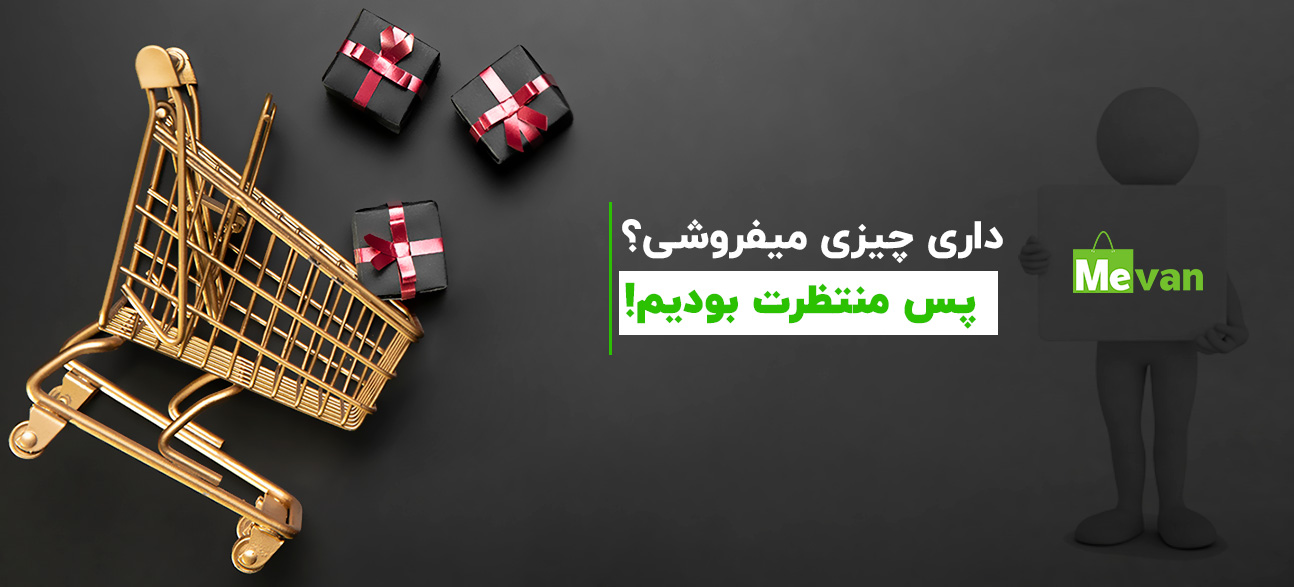
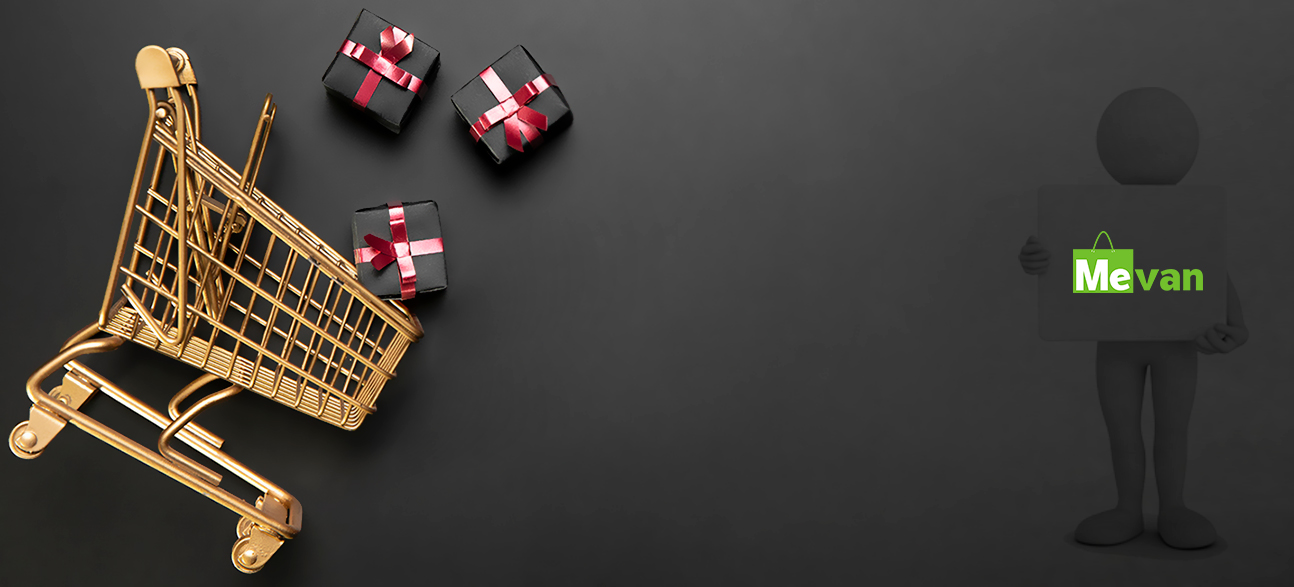
before change seller navigation

Changed region(s): [[0.4637, 0.368, 0.7728, 0.5826]]

diff --git a/laravel/public/css/myStyle.css b/laravel/public/css/myStyle.css
@@ -92,17 +92,17 @@
 
 /* width */
 ::-webkit-scrollbar {
-    width: 8px;
+    width: 4px;
 }
 
 /* Track */
 ::-webkit-scrollbar-track {
-    box-shadow: inset 0 0 5px grey;
+    box-shadow: inset 0 0 5px #bdbdbd;
 }
 
 /* Handle */
 ::-webkit-scrollbar-thumb {
-    background: #1c1b1b;
+    background: #747373;
 }
 
 /* Handle on hover */
@@ -1129,6 +1129,12 @@ body a{
     }
 }
 /*img border animated end*/
+@media screen and (max-width: 400px) {
+    .half-right{
+        transform: scale(0.8);
+        right: 0 !important;
+    }
+}
 @media screen and (max-width: 900px) {
     .swiper{
         width: 100%;
@@ -1158,7 +1164,9 @@ body a{
     .SubMenuScroll {
         height: auto !important;
     }
-
+    .megaMenuScroll {
+        overflow: hidden scroll;
+    }
     .ltrSubMenuScroll {
         height: auto !important;
     }
@@ -1271,3 +1279,4 @@ body a{
         height: 445px;
     }
 }
+

diff --git a/laravel/resources/views/Layouts/SellerNavigation.blade.php b/laravel/resources/views/Layouts/SellerNavigation.blade.php
@@ -49,19 +49,17 @@
 
                                 <!-- Add Link Female Product -->
                                 <li class="nav-item hs-has-mega-menu g-my-6">
-                                    <a href="#" class="nav-link" id="nav-link-408"
+                                    <a href="#" class="nav-link" id="nav-link-409"
                                        aria-haspopup="true"
                                        aria-expanded="false"
-                                       aria-controls="nav-megamenu-408"> افزودن پوشاک زنانه<i class="icon-arrow-down align-middle g-font-size-10 g-mr-7"></i></a>
-                                    <!-- Add Female Product -->
-                                    <div style="direction: ltr;" class="hs-mega-menu g-font-size-13"
-                                         id="nav-megamenu-408"
-                                         aria-labelledby="nav-link-408">
-                                            <h5 class="card-header g-bg-dark g-brd-around g-brd-gray-light-v4 g-color-gray-dark g-font-size-16 rounded-0 g-mb-5 text-right">
-                                                افزودن پوشاک زنانه
-                                            </h5>
-
-                                        <div style="height: 90%;" class="rowSeller align-items-stretch">
+                                       aria-controls="nav-megamenu-408"> افزودن پوشاک<i class="icon-arrow-down align-middle g-font-size-10 g-mr-7"></i></a>
+                                    <div style="direction: ltr; overflow-y: scroll; overflow-x: hidden" class="hs-mega-menu megaMenuScroll g-font-size-13"
+                                         id="nav-megamenu-409"
+                                         aria-labelledby="nav-link-409">
+                                        <h5 class="card-header g-bg-dark g-brd-around g-brd-gray-light-v4 g-color-gray-dark g-font-size-16 rounded-0 g-mb-5 text-right">
+                                            افزودن پوشاک زنانه
+                                        </h5>
+                                        <div class="rowSeller align-items-stretch">
                                             <!-- Add Dress Product -->
                                             <div class="col-lg-2 g-brd-right g-brd-gray-light-v4">
                                                 <h6 class="g-mr-8 g-mt-15 g-mb-8 g-font-weight-600">لباس زنانه</h6>
@@ -158,7 +156,7 @@
                                                                 <a href="{{ route('AddProduct_askSize',['23','0']) }}"
                                                                    class="d-block g-color-gray-dark-v4 g-color-primary--hover g-text-underline--none--hover g-py-5 g-px-20-Seller">تونیک</a>
                                                             </li>
- 							                                <li>
+                                                            <li>
                                                                 <a href="{{ route('AddProduct_askSize',['24','0']) }}"
                                                                    class="d-block g-color-gray-dark-v4 g-color-primary--hover g-text-underline--none--hover g-py-5 g-px-20-Seller">پیراهن</a>
                                                             </li>
@@ -612,7 +610,7 @@
                                                             <li>
                                                                 <a href="{{ route('AddProduct_askSize',['710','0']) }}"
                                                                    class="d-block g-color-gray-dark-v4 g-color-primary--hover g-text-underline--none--hover g-py-5 g-px-20-Seller">تاج
-                                                                    </a>
+                                                                </a>
                                                             </li>
                                                             <li>
                                                                 <a href="{{ route('AddProduct_askSize',['711','0']) }}"
@@ -691,10 +689,10 @@
                                                                    class="d-block g-color-gray-dark-v4 g-color-primary--hover g-text-underline--none--hover g-py-5 g-px-20-Seller">ساس
                                                                     بند</a>
                                                             </li>
-{{--                                                            <li>--}}
-{{--                                                                <a href="{{ route('AddProduct_askSize',['734','0']) }}"--}}
-{{--                                                                   class="d-block g-color-gray-dark-v4 g-color-primary--hover g-text-underline--none--hover g-py-5 g-px-20-Seller">ساعت</a>--}}
-{{--                                                            </li>--}}
+                                                            {{--                                                            <li>--}}
+                                                            {{--                                                                <a href="{{ route('AddProduct_askSize',['734','0']) }}"--}}
+                                                            {{--                                                                   class="d-block g-color-gray-dark-v4 g-color-primary--hover g-text-underline--none--hover g-py-5 g-px-20-Seller">ساعت</a>--}}
+                                                            {{--                                                            </li>--}}
                                                             <li>
                                                                 <a href="{{ route('AddProduct_askSize',['735','0']) }}"
                                                                    class="d-block g-color-gray-dark-v4 g-color-primary--hover g-text-underline--none--hover g-py-5 g-px-20-Seller">کمربند</a>
@@ -768,27 +766,10 @@
                                             </div>
                                             <!-- End Add Accessory Product -->
                                         </div>
-                                    </div>
-                                    <!-- End Add Kids Product -->
-                                </li>
-                                <!-- End Link Female Product -->
-
-                                <!-- Add Link Male Product -->
-                                <li class="nav-item hs-has-mega-menu g-my-6">
-                                    <a href="#" class="nav-link" id="nav-link-408"
-                                       aria-haspopup="true"
-                                       aria-expanded="false"
-                                       aria-controls="nav-megamenu-408"> افزودن پوشاک مردانه<i
-                                            class="icon-arrow-down align-middle g-font-size-10 g-mr-7"></i></a>
-                                    <!-- Add Male Product -->
-                                    <div style="direction: ltr;" class="hs-mega-menu g-font-size-13"
-                                         id="nav-megamenu-408"
-                                         aria-labelledby="nav-link-408">
                                         <h5 class="card-header g-bg-dark g-brd-around g-brd-gray-light-v4 g-color-gray-dark g-font-size-16 rounded-0 g-mb-5 text-right">
                                             افزودن پوشاک مردانه
                                         </h5>
-
-                                        <div style="height: 90%;" class="rowSeller align-items-stretch">
+                                        <div class="rowSeller align-items-stretch">
                                             <!-- Add Dress Product -->
                                             <div class="col-lg-2 g-brd-right g-brd-gray-light-v4">
                                                 <h6 class="g-mr-8 g-mt-15 g-mb-8 g-font-weight-600">لباس مردانه</h6>
@@ -1298,26 +1279,10 @@
                                             </div>
                                             <!-- End Add Accessory Product -->
                                         </div>
-                                    </div>
-                                    <!-- End Add Mae Product -->
-                                </li>
-                                <!-- End Link Male Product -->
-
-                                <!-- Add Link Kids Product -->
-                                <li class="nav-item hs-has-mega-menu g-my-6">
-                                    <a href="#" class="nav-link" id="nav-link-408"
-                                       aria-haspopup="true"
-                                       aria-expanded="false"
-                                       aria-controls="nav-megamenu-408"> افزودن پوشاک بچگانه<i
-                                            class="icon-arrow-down align-middle g-font-size-10 g-mr-7"></i></a>
-                                    <div style="direction: ltr;" class="hs-mega-menu g-font-size-13"
-                                         id="nav-megamenu-408"
-                                         aria-labelledby="nav-link-408">
                                         <h5 class="card-header g-bg-dark g-brd-around g-brd-gray-light-v4 g-color-gray-dark g-font-size-16 rounded-0 g-mb-5 text-right">
                                             افزودن پوشاک بچگانه
                                         </h5>
-
-                                        <div style="height: 90%;" class="rowSeller align-items-stretch">
+                                        <div class="rowSeller align-items-stretch">
                                             <!-- دخترانه -->
                                             <div class="col-lg-4 g-brd-right g-brd-gray-light-v4">
                                                 <h6 class="g-mr-8 g-mt-15 g-mb-8 g-font-weight-600">دخترانه</h6>
@@ -1365,7 +1330,7 @@
                                                             <li>
                                                                 <a href="{{ route('AddProduct_askSize',['14','2']) }}"
                                                                    class="d-block g-color-gray-dark-v4 g-color-primary--hover g-text-underline--none--hover g-py-5 g-px-20-Seller">جوراب
-                                                                    </a>
+                                                                </a>
                                                             </li>
                                                         </ul>
                                                     </li>
@@ -1874,25 +1839,10 @@
                                                 </ul>
                                             </div>
                                         </div>
-                                    </div>
-                                </li>
-                                <!-- End Link Kids Product -->
-
-                                <!-- Add Link baby Product -->
-                                <li class="nav-item hs-has-mega-menu g-my-6">
-                                    <a href="#" class="nav-link" id="nav-link-408"
-                                       aria-haspopup="true"
-                                       aria-expanded="false"
-                                       aria-controls="nav-megamenu-408"> افزودن پوشاک نوزادی<i
-                                            class="icon-arrow-down align-middle g-font-size-10 g-mr-7"></i></a>
-                                    <div style="direction: ltr;" class="hs-mega-menu g-font-size-13"
-                                         id="nav-megamenu-408"
-                                         aria-labelledby="nav-link-408">
                                         <h5 class="card-header g-bg-dark g-brd-around g-brd-gray-light-v4 g-color-gray-dark g-font-size-16 rounded-0 g-mb-5 text-right">
                                             افزودن پوشاک نوزادی
                                         </h5>
-
-                                        <div style="height: 90%;" class="rowSeller align-items-stretch">
+                                        <div class="rowSeller align-items-stretch">
                                             <!-- دخترانه -->
                                             <div class="col-lg-4 g-brd-right g-brd-gray-light-v4">
                                                 <h6 class="g-mr-8 g-mt-15 g-mb-8 g-font-weight-600">دخترانه</h6>
@@ -2013,11 +1963,11 @@
                                                         <a href="#"
                                                            class="d-block g-color-gray-dark-v4 g-color-primary--hover g-text-underline--none--hover g-py-5 g-px-20-Seller d-flex flex-row-reverse">اکسسوری<i class="icon-arrow-left align-self-center g-font-size-8 g-mr-7"></i></a>
                                                         <ul class="list-unstyled hs-sub-menu">
-{{--                                                            <li>--}}
-{{--                                                                <a href="{{ route('AddProduct_askSize',['50','4']) }}"--}}
-{{--                                                                   class="d-block g-color-gray-dark-v4 g-color-primary--hover g-text-underline--none--hover g-py-5 g-px-20-Seller">اسباب--}}
-{{--                                                                    بازی</a>--}}
-{{--                                                            </li>--}}
+                                                            {{--                                                            <li>--}}
+                                                            {{--                                                                <a href="{{ route('AddProduct_askSize',['50','4']) }}"--}}
+                                                            {{--                                                                   class="d-block g-color-gray-dark-v4 g-color-primary--hover g-text-underline--none--hover g-py-5 g-px-20-Seller">اسباب--}}
+                                                            {{--                                                                    بازی</a>--}}
+                                                            {{--                                                            </li>--}}
                                                             <li>
                                                                 <a href="{{ route('AddProduct_askSize',['51','4']) }}"
                                                                    class="d-block g-color-gray-dark-v4 g-color-primary--hover g-text-underline--none--hover g-py-5 g-px-20-Seller">سر پوش</a>
@@ -2177,11 +2127,11 @@
                                                         <a href="#"
                                                            class="d-block g-color-gray-dark-v4 g-color-primary--hover g-text-underline--none--hover g-py-5 g-px-20-Seller d-flex flex-row-reverse">اکسسوری<i class="icon-arrow-left align-self-center g-font-size-8 g-mr-7"></i></a>
                                                         <ul class="list-unstyled hs-sub-menu">
-{{--                                                            <li>--}}
-{{--                                                                <a href="{{ route('AddProduct_askSize',['50','5']) }}"--}}
-{{--                                                                   class="d-block g-color-gray-dark-v4 g-color-primary--hover g-text-underline--none--hover g-py-5 g-px-20-Seller">اسباب--}}
-{{--                                                                    بازی</a>--}}
-{{--                                                            </li>--}}
+                                                            {{--                                                            <li>--}}
+                                                            {{--                                                                <a href="{{ route('AddProduct_askSize',['50','5']) }}"--}}
+                                                            {{--                                                                   class="d-block g-color-gray-dark-v4 g-color-primary--hover g-text-underline--none--hover g-py-5 g-px-20-Seller">اسباب--}}
+                                                            {{--                                                                    بازی</a>--}}
+                                                            {{--                                                            </li>--}}
                                                             <li>
                                                                 <a href="{{ route('AddProduct_askSize',['51','5']) }}"
                                                                    class="d-block g-color-gray-dark-v4 g-color-primary--hover g-text-underline--none--hover g-py-5 g-px-20-Seller">سرپوش</a>
@@ -2226,23 +2176,22 @@
                                         </div>
                                     </div>
                                 </li>
-                                <!-- End Link baby Product -->
 
-                                <!-- Add Link Female Product -->
+                                <!-- Add Link Medicine Product -->
                                 <li class="nav-item hs-has-mega-menu g-my-6">
                                     <a href="#" class="nav-link" id="nav-link-408"
                                        aria-haspopup="true"
                                        aria-expanded="false"
-                                       aria-controls="nav-megamenu-408"> افزودن سایر محصولات<i class="icon-arrow-down align-middle g-font-size-10 g-mr-7"></i></a>
+                                       aria-controls="nav-megamenu-408"> افزودن کالای پزشکی<i class="icon-arrow-down align-middle g-font-size-10 g-mr-7"></i></a>
                                     <!-- Add Female Product -->
                                     <div style="direction: ltr;" class="hs-mega-menu g-font-size-13"
                                          id="nav-megamenu-408"
                                          aria-labelledby="nav-link-408">
                                         <h5 class="card-header g-bg-dark g-brd-around g-brd-gray-light-v4 g-color-gray-dark g-font-size-16 rounded-0 g-mb-5 text-right">
-                                            افزودن سایر محصولات
+                                            افزودن کالای پزشکی
                                         </h5>
 
-                                        <div style="height: 90%;" class="rowSeller align-items-stretch">
+                                        <div class="rowSeller align-items-stretch">
                                             <!-- Add Dress Product -->
                                             <div class="col-lg-2 g-brd-right g-brd-gray-light-v4">
                                                 <h6 class="g-mr-8 g-mt-15 g-mb-8 g-font-weight-600">وسایل برقی</h6>

diff --git a/laravel/resources/views/Customer/Master.blade.php b/laravel/resources/views/Customer/Master.blade.php
@@ -4,9 +4,42 @@
         <div style="background-image: linear-gradient(to bottom, #ffffff,rgba(240,240,240,1));">
             <div class="carousel-container d-lg-block d-none">
                 <div class="carousel-track desktop-track">
-                    <div class="slide"><img src="{{asset('img/Banners/new.jpg')}}" alt="اسلاید 1"></div>
-                    <div class="slide"><img src="{{asset('img/Banners/new2.jpg')}}" alt="اسلاید 2"></div>
-                    <div class="slide"><img src="{{asset('img/Banners/new3.jpg')}}" alt="اسلاید 3"></div>
+                    <div class="slide">
+                        <div style="position: relative">
+                            <img src="{{asset('img/Banners/new.jpg?v=2')}}" alt="اسلاید 1">
+                            <div
+                                style="direction:rtl; position: absolute; top: 37%; right: 22%; border-right: 2px solid #7fc242"
+                                class="text-right g-font-weight-900 g-pr-10 g-font-size-35 g-color-white">
+                                <p class="m-0">داری چیزی میفروشی؟</p>
+                                <p class="m-0 g-bg-white g-color-primary g-px-5 g-font-size-30">پس منتظرت بودیم!</p>
+                            </div>
+                        </div>
+                    </div>
+                    <div class="slide">
+                        <div style="position: relative;">
+                            <img src="{{asset('img/Banners/new2.jpg?v=2')}}" alt="اسلاید 2">
+                            <div style="direction:rtl; position: absolute; bottom: 20%" class="text-center col-12">
+                                <p class="m-0 g-color-primary g-font-weight-900 g-font-size-45">ما یه بازار آنلاین
+                                    هستیم</p>
+                                <p class="m-0 g-color-white g-font-weight-600 g-font-size-33">برای همه مشاغل از کوچک تا
+                                    بزرگ</p>
+                            </div>
+                        </div>
+                    </div>
+                    <div class="slide">
+                        <div style="position: relative">
+                            <img src="{{asset('img/Banners/new3.jpg?v=2')}}" alt="اسلاید 1">
+                            <div
+                                style="direction:rtl; position: absolute; top: 22%; right: 31%; border-right: 2px solid #7fc242"
+                                class="text-right g-font-weight-900 g-pr-10 g-font-size-40 g-color-white">
+                                <p class="m-0 g-font-weight-900  g-color-primary">از همین الان</p>
+                                <p class="m-0 g-font-weight-300">تا یکماه آینده ثبت نام کن</p>
+                                <p class="m-0 g-font-weight-300">تا به مدت یک هفته</p>
+                                <p class="m-0 g-bg-white-opacity-0_9 g-color-primary g-px-5 g-font-size-25">تبلیغت روی
+                                    بنر اصلی سایت بدرخشه!</p>
+                            </div>
+                        </div>
+                    </div>
                 </div>
             </div>
 
@@ -15,16 +48,21 @@
                     <div class="slide">
                         <div style="position: relative">
                             <img src="{{asset('img/Banners/new-mobile.jpg?v=2')}}" alt="اسلاید 1">
-                            <div style="direction:rtl; position: absolute; top: 18%; right: 5%; border-right: 2px solid #7fc242" class="text-right g-font-weight-600 g-pr-10 g-font-size-30 g-color-white">
+                            <div
+                                style="direction:rtl; position: absolute; top: 18%; right: 5%; border-right: 2px solid #7fc242"
+                                class="half-right text-right g-font-weight-600 g-pr-10 g-font-size-30 g-color-white">
                                 <p class="m-0">داری</p>
                                 <p class="m-0">چیزی</p>
                                 <p class="m-0">می فروشی؟</p>
-                                <p class="m-0 g-bg-white-opacity-0_9 g-color-primary g-px-5 g-font-size-25">پس منتظرت بودیم!</p>
+                                <p class="m-0 g-bg-white-opacity-0_9 g-color-primary g-px-5 g-font-size-25">پس منتظرت
+                                    بودیم!</p>
                             </div>
-                            <div style="position: absolute; bottom: 20%; right: 35px; width: 200px">
+                            <div style="position: absolute; bottom: 20%; right: 5%; width: 200px" class="half-right">
                                 <img src="{{ asset('img/Logo/logo2.png') }}" alt="فروشگاه بزرگ میوان" class="g-pt-0">
-                                <p style="text-align-last: justify" class="m-0 g-color-white">شرکت تابش پس زمینه مکریان</p>
-                                <p class="m-0 g-color-white d-flex justify-content-between"><span>تاسیس 1400</span><span>ثبت 2918</span></p>
+                                <p style="text-align-last: justify" class="m-0 g-color-white">شرکت تابش پس زمینه
+                                    مکریان</p>
+                                <p class="m-0 g-color-white d-flex justify-content-between">
+                                    <span>تاسیس 1400</span><span>ثبت 2918</span></p>
                             </div>
                         </div>
                     </div>
@@ -32,23 +70,23 @@
                         <div style="position: relative;">
                             <img src="{{asset('img/Banners/new-mobile2.jpg?v=2')}}" alt="اسلاید 2">
                             <div style="direction:rtl; position: absolute; top: 10%" class="text-center col-12">
-                                <p class="m-0 g-color-primary g-font-weight-800 g-font-size-28">ما یه بازار آنلاین هستیم</p>
+                                <p class="m-0 g-color-primary g-font-weight-800 g-font-size-28">ما یه بازار آنلاین
+                                    هستیم</p>
                                 <p class="m-0 g-color-white g-font-size-20">برای همه مشاغل از کوچک تا بزرگ</p>
                             </div>
                         </div>
                     </div>
                     <div class="slide">
-                        <div style="position: relative;">
-                            <div class="slide">
-                                <div style="position: relative">
-                                    <img src="{{asset('img/Banners/new-mobile3.jpg?v=2')}}" alt="اسلاید 1">
-                                    <div style="direction:rtl; position: absolute; top: 40%; left: 7%; border-left: 2px solid #7fc242" class="text-left g-font-weight-600 g-pl-10 g-font-size-25 g-color-white">
-                                        <p class="m-0 g-color-primary">از همین الان</p>
-                                        <p class="m-0">تا یکماه آینده ثبت نام کن</p>
-                                        <p class="m-0">تا به مدت یک هفته</p>
-                                        <p class="m-0 g-bg-white-opacity-0_9 g-color-primary g-px-5 g-font-size-16">تبلیغت روی بنر اصلی سایت بدرخشه!</p>
-                                    </div>
-                                </div>
+                        <div style="position: relative">
+                            <img src="{{asset('img/Banners/new-mobile3.jpg?v=2')}}" alt="اسلاید 1">
+                            <div
+                                style="direction:rtl; position: absolute; top: 40%; left: 7%; border-left: 2px solid #7fc242"
+                                class="half-right text-left g-font-weight-600 g-pl-10 g-font-size-25 g-color-white">
+                                <p class="m-0 g-color-primary">از همین الان</p>
+                                <p class="m-0">تا یکماه آینده ثبت نام کن</p>
+                                <p class="m-0">تا به مدت یک هفته</p>
+                                <p class="m-0 g-bg-white-opacity-0_9 g-color-primary g-px-5 g-font-size-16">تبلیغت روی
+                                    بنر اصلی سایت بدرخشه!</p>
                             </div>
                         </div>
                     </div>

diff --git a/laravel/resources/views/Layouts/BaseCssLink.blade.php b/laravel/resources/views/Layouts/BaseCssLink.blade.php
@@ -15,7 +15,10 @@
     <meta http-equiv="x-ua-compatible" content="ie=edge">
     <meta name="_token" content="{{ csrf_token() }}">
     <title>میوان</title>
-
+    <link rel="apple-touch-icon" sizes="180x180" href="{{asset('apple-touch-icon.png')}}">
+    <link rel="icon" type="image/png" sizes="32x32" href="{{asset('favicon-32x32.png')}}">
+    <link rel="icon" type="image/png" sizes="16x16" href="{{asset('favicon-16x16.png')}}">
+    <link rel="manifest" href="{{asset('site.webmanifest')}}">
     <link rel="stylesheet" href="{{ asset('css/swiper-bundle.css') }}">
 
     <!--My Style-->

diff --git a/laravel/resources/views/Customer/AboutMe.blade.php b/laravel/resources/views/Customer/AboutMe.blade.php
@@ -31,6 +31,7 @@
                 <h6>تولید: 1400-1398</h6>
                 <h6>نوع کاربری: Market Place</h6>
                 <h6>آدرس: آذربایجان غربی، مهاباد، تاناکورا خرده، طبقه اول، پلاک 1142/1</h6>
+                <h6>کدپستی: 5915946263</h6>
                 <h6>زمان پاسخگویی تلفنی: شنبه تا پنج شنبه ساعت 14 الی 20</h6>
                 <h6>تلفن تماس: 42340241-044</h6>
                 <h6>ایمیل</h6>
